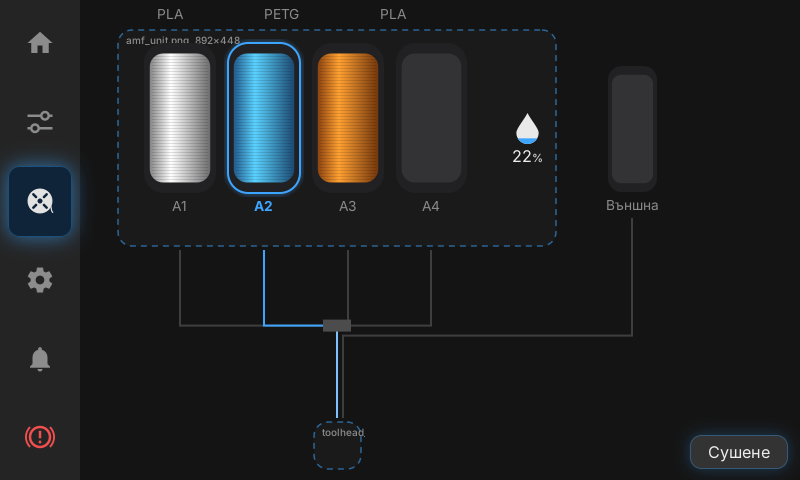
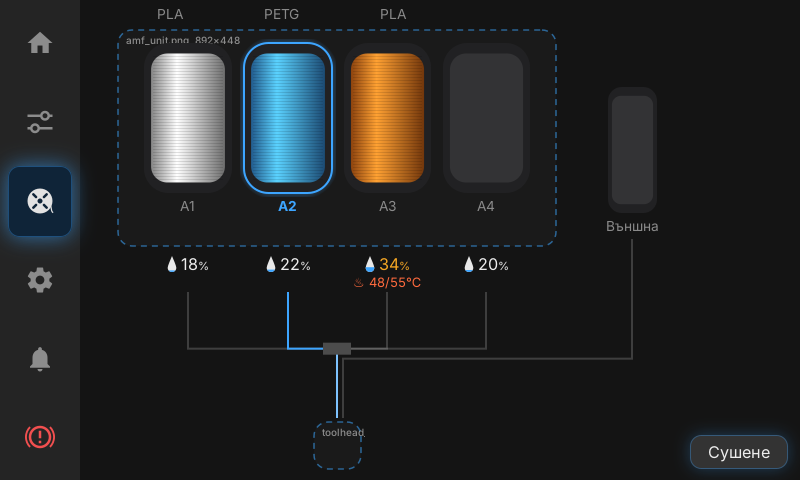
AMF: per-slot humidity and drying status
Each AMF slot has its own humidity sensor and dryer, so the single
unit-wide humidity drop is replaced by a row under the spools: humidity
per slot (orange at 30% and above) and, while drying, current/target
dryer temperature. Tapping a slot's row opens drying for that slot.

Claude-Session: https://claude.ai/code/session_01UDXxExjckQXFuTFM9n4juG

diff --git a/styles/ang-bambu/style.css b/styles/ang-bambu/style.css
@@ -738,3 +738,21 @@ button.ang-offline image {
 button.ang-offline label {
     color: @warning;
 }
+
+/* AMF: влажност и сушене под всеки слот */
+button.ang-slot-info {
+    background-color: transparent;
+    border: none;
+    box-shadow: none;
+    margin: 0;
+    padding: .1em 0;
+}
+
+.ang-drying {
+    color: @hot;
+    font-size: .8em;
+}
+
+.ang-humid {
+    color: @warning;
+}

diff --git a/addons/ang_ender/panels/ang_amf.py b/addons/ang_ender/panels/ang_amf.py
@@ -11,7 +11,9 @@ from ks_addons.ang_ender.config import AMF_DEFAULT_SLOTS
 
 # Къде лежат макарите върху amf_unit.png: ляв/десен отстъп и горе/долу (относително 0..1).
 # Нагласи ги, когато сложиш истинския рендер на корпуса.
-SPOOL_AREA = (0.06, 0.20, 0.06, 0.16)  # left, right, top, bottom
+HUMIDITY_WARN = 30  # % — над това влажността се оцветява в оранжево
+
+SPOOL_AREA = (0.06, 0.06, 0.06, 0.16)  # left, right, top, bottom
 
 
 class PathLines(Gtk.DrawingArea):
@@ -32,7 +34,7 @@ class PathLines(Gtk.DrawingArea):
             return (r[0], r[1]) if r else (0, 0)
 
         hx, hy = pos(p.head, 0.5, 0.0)
-        _, box_bottom = pos(p.unit_ov, 0, 1.0)
+        _, box_bottom = pos(p.info_row, 0, 1.0)
         hub_y = box_bottom + (hy - box_bottom) * 0.45
         cr.set_line_width(2)
         for i, sp in enumerate(p.spools):
@@ -110,14 +112,33 @@ class Panel(AngPanel):
             self.names.append(name)
         self.unit_ov.add_overlay(spools_box)
         # влажност вдясно в корпуса
-        hum = Gtk.Box(orientation=Gtk.Orientation.VERTICAL, halign=Gtk.Align.END, valign=Gtk.Align.CENTER)
-        hum.set_margin_end(int(unit_w * 0.04))
-        self.drop = ui.HumidityDrop(int(fs * 1.6), int(fs * 2.2))
-        hum.add(self.drop)
-        self.hum_lbl = ui.label("--", "ang-caption-strong", xalign=0.5, markup=True)
-        hum.add(self.hum_lbl)
-        self.unit_ov.add_overlay(hum)
-        row.pack_start(self.unit_ov, False, False, int(cw * 0.04))
+        # под всеки слот: собствена влажност и сушене (всеки слот има свой сензор и нагревател)
+        unit_col = Gtk.Box(orientation=Gtk.Orientation.VERTICAL, spacing=int(fs * 0.2))
+        unit_col.add(self.unit_ov)
+        self.info_row = Gtk.Box(homogeneous=True, spacing=int(fs * 0.3))
+        self.info_row.set_margin_start(int(unit_w * l))
+        self.info_row.set_margin_end(int(unit_w * r))
+        self.drops, self.hum_lbls, self.dry_lbls = [], [], []
+        for i in range(n):
+            cell = Gtk.Button()
+            cell.get_style_context().add_class("ang-slot-info")
+            cv = Gtk.Box(orientation=Gtk.Orientation.VERTICAL)
+            hrow = Gtk.Box(spacing=int(fs * 0.2), halign=Gtk.Align.CENTER)
+            drop = ui.HumidityDrop(int(fs * 0.8), int(fs * 1.1))
+            hl = ui.label("--", "ang-caption-strong", markup=True)
+            hrow.add(drop)
+            hrow.add(hl)
+            cv.add(hrow)
+            dl = ui.label("", "ang-drying", xalign=0.5)
+            cv.add(dl)
+            cell.add(cv)
+            cell.connect("clicked", lambda w, k=i: self._dry(k))
+            self.info_row.add(cell)
+            self.drops.append(drop)
+            self.hum_lbls.append(hl)
+            self.dry_lbls.append(dl)
+        unit_col.add(self.info_row)
+        row.pack_start(unit_col, False, False, int(cw * 0.04))
 
         # външна макара
         ext_box = Gtk.Box(orientation=Gtk.Orientation.VERTICAL, valign=Gtk.Align.CENTER)
@@ -139,7 +160,7 @@ class Panel(AngPanel):
         actions = Gtk.Box(spacing=int(fs * 0.4), halign=Gtk.Align.END, valign=Gtk.Align.END, hexpand=True)
         dry = Gtk.Button(label="Сушене")
         dry.get_style_context().add_class("ang-secondary")
-        dry.connect("clicked", lambda *_: self.open("ang_amf_dry", "Сушене и влажност", slot=0))
+        dry.connect("clicked", lambda *_: self.open("ang_amf_dry", "Сушене и влажност", slot=self.active if isinstance(self.active, int) else 0))
         actions.add(dry)
         bottom.pack_start(actions, True, True, 0)
         col.pack_start(bottom, True, True, 0)
@@ -188,7 +209,6 @@ class Panel(AngPanel):
     def refresh(self):
         slots = self.stat("amf", "slots", {}) or {}
         self.active = self.stat("amf", "active_slot")
-        hums = []
         for i, sp in enumerate(self.spools):
             s = slots.get(str(i)) or {}
             present = s.get("filament")
@@ -197,12 +217,16 @@ class Panel(AngPanel):
             self.mats[i].set_text(s.get("profile") or ("?" if present else ""))
             ctx = self.names[i].get_style_context()
             (ctx.add_class if self.active == i else ctx.remove_class)("ang-slot-active")
-            if s.get("humidity") is not None and s.get("online"):
-                hums.append(s["humidity"])
-        if hums:
-            h = max(hums)
-            self.drop.set_level(h)
-            self.hum_lbl.set_markup(ui.value_markup(f"{h:.0f}", "%"))
+            h = s.get("humidity") if s.get("online", True) else None
+            self.drops[i].set_level(h)
+            self.hum_lbls[i].set_markup(ui.value_markup(f"{h:.0f}", "%") if h is not None else "--")
+            dctx = self.hum_lbls[i].get_style_context()
+            (dctx.add_class if h is not None and h >= HUMIDITY_WARN else dctx.remove_class)("ang-humid")
+            if s.get("drying"):
+                t, tg = s.get("temperature"), s.get("target_temp")
+                self.dry_lbls[i].set_text(f"♨ {t:.0f}/{tg:.0f}℃" if t is not None and tg else "♨ суши")
+            else:
+                self.dry_lbls[i].set_text("")
         self.lines.queue_draw()
 
     def activate(self):

diff --git a/tools/preview_pages.py b/tools/preview_pages.py
@@ -55,7 +55,7 @@ DATA = {
         "slots": {
             "0": {"filament": True, "color": "F2F2F2", "profile": "PLA", "humidity": 18, "online": True, "temperature": 26},
             "1": {"filament": True, "color": "3DA5FF", "profile": "PETG", "humidity": 22, "online": True, "temperature": 26},
-            "2": {"filament": True, "color": "FF7A1A", "profile": "PLA", "humidity": 19, "online": True, "temperature": 26},
+            "2": {"filament": True, "color": "FF7A1A", "profile": "PLA", "humidity": 34, "online": True, "temperature": 48, "target_temp": 55, "drying": True},
             "3": {"filament": False, "online": True, "humidity": 20},
         },
     },
